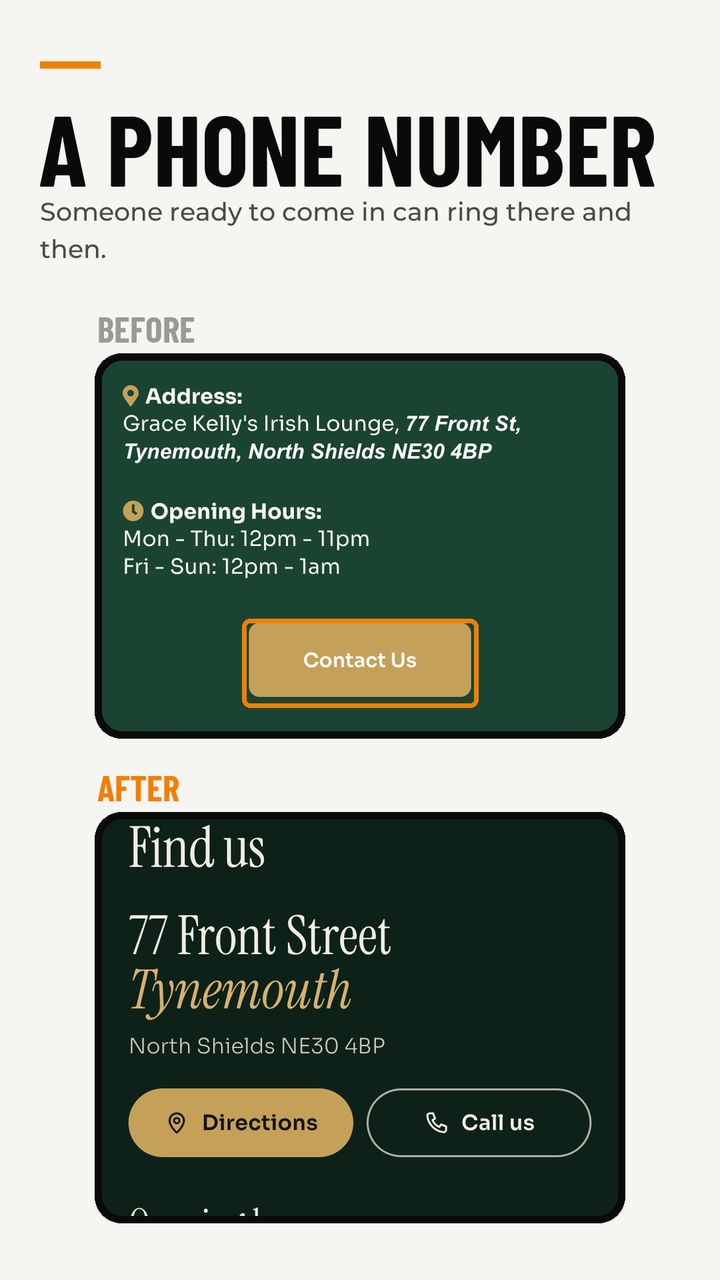
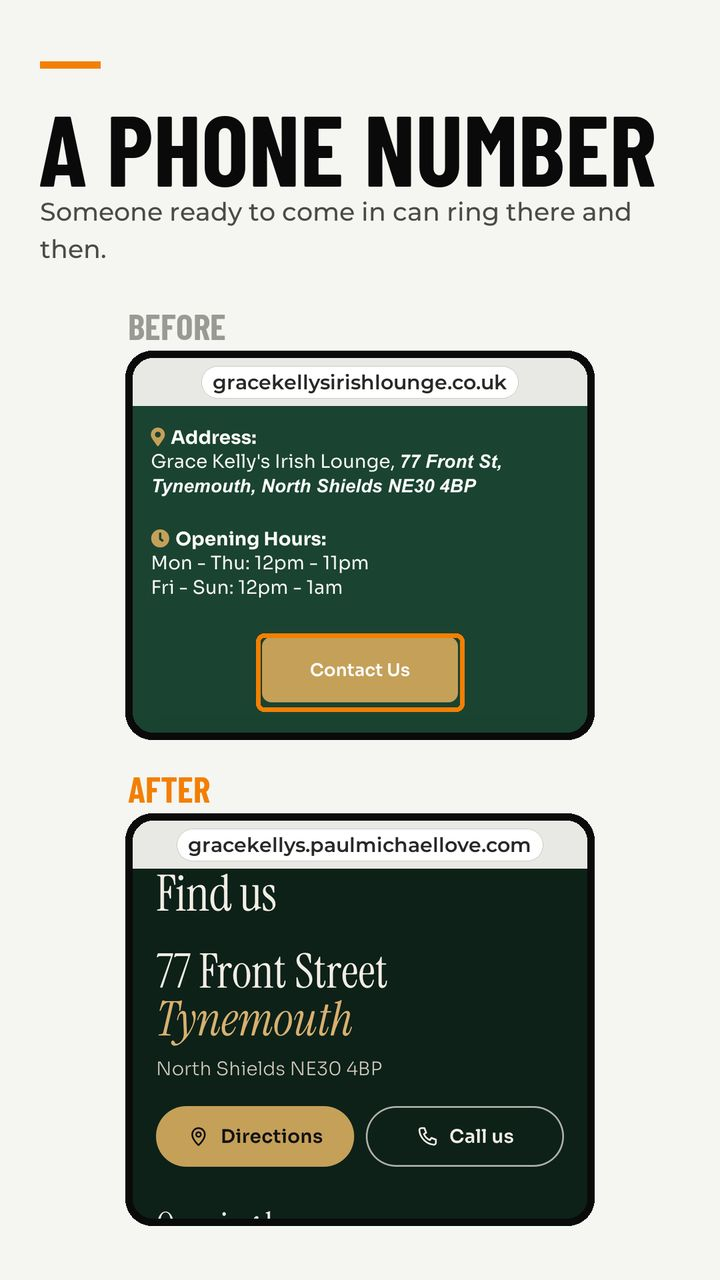
audit: numbers up top, comparison labelled, address bars on every screen

Changed region(s): [[0.1222, 0.2188, 0.8861, 0.9688]]

diff --git a/audit/index.html b/audit/index.html
@@ -34,18 +34,27 @@ section,header{padding-inline:20px}
 .pn{position:absolute;width:1px;height:1px;overflow:hidden;clip:rect(0 0 0 0);white-space:nowrap;font-style:normal}
 
 /* hero */
-.hero{padding-top:max(34px,env(safe-area-inset-top));padding-bottom:64px;min-height:100svh;background:radial-gradient(120% 60% at 50% 38%,#1b1b19 0%,var(--ink) 70%)}
+.hero{padding-top:max(34px,env(safe-area-inset-top));padding-bottom:48px;background:radial-gradient(120% 60% at 50% 38%,#1b1b19 0%,var(--ink) 70%)}
 .hero .lead{margin-top:6px;font-size:22px}
-.duo{display:flex;gap:14px;margin:26px 0 18px;align-items:flex-start}
+.duo{display:flex;gap:10px;margin:8px 0 30px;align-items:flex-start}
+.ref{margin:18px 0 34px;font-size:14px;line-height:1.5;color:var(--soft);max-width:30em}
+.pitch p{margin:0 0 .9em;font:600 24px/1.4 "Montserrat",system-ui,sans-serif;color:var(--white);text-wrap:pretty}
+.pitch b{font:700 1.3em/1 "Barlow Condensed","Arial Narrow",sans-serif;color:var(--orange);letter-spacing:.01em}
+.compare{padding-top:18px;padding-bottom:56px}
+.poster{transition:opacity .4s ease}
+.poster.gone{opacity:0}
+.cap2{margin:14px 0 0;text-align:center;font-size:14px;line-height:1.4;color:var(--soft)}
 .ph{margin:0;flex:1;min-width:0}
-.ph .scr{position:relative;border:7px solid var(--bezel);border-radius:30px;overflow:hidden;aspect-ratio:390/844;background:#000;box-shadow:0 34px 60px -28px rgba(0,0,0,.9),0 0 0 1px #3a3a37}
+.ph .chip{border:7px solid var(--bezel);border-bottom:0;border-radius:28px 28px 0 0;padding-top:12px}
+.ph .scr{position:relative;border:7px solid var(--bezel);border-top:0;border-radius:0 0 28px 28px;overflow:hidden;aspect-ratio:390/844;background:#000;box-shadow:0 34px 60px -28px rgba(0,0,0,.9),0 0 0 1px #3a3a37}
 .ph .scr img{display:block;width:100%;height:100%;object-fit:cover}
 .ph.old .scr img{filter:brightness(.38) saturate(.7)}
 .ph.new .scr{box-shadow:0 34px 70px -24px rgba(0,0,0,.9),0 0 0 1px #4a4a46,0 0 46px rgba(245,245,242,.07)}
 iframe.live{position:absolute;left:0;top:0;width:390px;height:844px;border:0;transform-origin:0 0;transform:scale(.405);opacity:0;transition:opacity .6s ease;background:#0d2119}
 iframe.live.ready{opacity:1}
-.ph figcaption{margin-top:12px;font-size:13px;line-height:1.3;color:var(--soft);text-align:center}
-.ph.new figcaption::before{content:"";display:inline-block;width:7px;height:7px;border-radius:50%;background:#58d68d;margin-right:8px;vertical-align:1px;animation:pulse 2.4s ease-in-out infinite}
+.ph figcaption{margin-top:12px;font-size:15px;line-height:1.3;font-weight:600;color:var(--white);text-align:center}
+.ph figcaption small{display:block;margin-top:5px;font-size:12px;font-weight:500;color:var(--soft)}
+.ph.new figcaption small::before{content:"";display:inline-block;width:7px;height:7px;border-radius:50%;background:#58d68d;margin-right:8px;vertical-align:1px;animation:pulse 2.4s ease-in-out infinite}
 @keyframes pulse{50%{opacity:.35}}
 @media (prefers-reduced-motion:no-preference){.duo .ph{animation:rise .9s var(--ease) both}.duo .ph.new{animation-delay:.12s}@keyframes rise{from{transform:translateY(22px)}}}
 
@@ -66,7 +75,12 @@ iframe.live.ready{opacity:1}
 .dev{margin:0;background:#000}
 .dev.phone{border:8px solid var(--bezel);border-radius:34px;overflow:hidden;box-shadow:0 36px 60px -30px rgba(0,0,0,.9),0 0 0 1px #3a3a37}
 .dev.browser{border:2px solid var(--bezel);border-radius:14px;overflow:hidden;background:#1c1c1a;box-shadow:0 30px 50px -28px rgba(0,0,0,.9),0 0 0 1px #3a3a37}
-.bar{height:22px;display:flex;gap:6px;align-items:center;padding:0 10px;background:#2a2a28}
+.bar{height:30px;display:flex;gap:6px;align-items:center;padding:0 10px;background:#2a2a28}
+.bar .url{flex:1;min-width:0;margin-left:6px;padding:4px 10px;border-radius:99px;background:#0b0b0a;color:#D6D6D0;font:600 10.5px/1.2 "Montserrat",sans-serif;text-align:center;white-space:nowrap;overflow:hidden}
+.chip{background:#1d1d1b;padding:7px 8px;container-type:inline-size}
+.chip span{display:block;margin:0 auto;background:#0b0b0a;border-radius:99px;padding:5px 6px;text-align:center;font:600 9px/1.2 "Montserrat",sans-serif;font-size:clamp(7px,5.2cqw,11px);color:#D6D6D0;white-space:nowrap;overflow:hidden}
+.urls{display:flex;justify-content:space-between;gap:6px;padding:7px 8px;background:#1d1d1b}
+.urls span{flex:1;min-width:0;padding:4px 4px;border-radius:99px;background:#0b0b0a;color:#D6D6D0;font:600 8px/1.2 "Montserrat",sans-serif;text-align:center;white-space:nowrap;overflow:hidden;text-overflow:clip}
 .bar i{width:7px;height:7px;border-radius:50%;background:#8a8a85}
 .scr{position:relative;display:block}
 .dev .scr img{display:block;width:100%;height:100%;object-fit:cover}
@@ -149,7 +163,7 @@ a.demo{color:var(--white);font-weight:700;text-decoration:none;border-bottom:2px
   .js .ring,.js .dim,iframe.live{transition:none}
   .js .ring{stroke-dashoffset:0}.js .dim{opacity:.5}
   iframe.live{opacity:1}
-  .ph.new figcaption::before{animation:none}
+  .ph.new figcaption small::before{animation:none}
 }
 
 </style>
@@ -159,21 +173,28 @@ a.demo{color:var(--white);font-weight:700;text-decoration:none;border-bottom:2px
 
 <header class="hero">
   <h1 class="d">The sites are new and they’re leaking</h1>
-  <div class="duo">
-    <figure class="ph old"><div class="scr"><img src="assets/hero-old.jpg" width="780" height="1688" alt="Grace Kelly’s Tynemouth first screen on a phone, as it is now"></div></figure>
-    <figure class="ph new"><div class="scr"><img class="poster" src="assets/hero-new.jpg" width="780" height="1688" alt="The demo’s first screen on a phone"><iframe class="live" src="https://gracekellys.paulmichaellove.com/" title="Grace Kelly’s Tynemouth, the live demo" width="390" height="844" loading="lazy" referrerpolicy="no-referrer"></iframe></div><figcaption>that’s live, go on</figcaption></figure>
+  <p class="ref">The Cove, Grace Kelly’s, 3Sixty and Davanti, on a phone, 3 November 2026.</p>
+  <div class="pitch">
+    <p>They look the part. One lost bottomless table a week at each is <b>£1,040</b> a month.</p>
+    <p><b>£697</b> a site to do it over, paid when it’s live. Then <b>£97</b> a site a month to keep it that way.</p>
+    <p>Grace Kelly’s is already built. Say the word and it’s live three days after your logins land.</p>
   </div>
-  <p class="lead">They look the part.</p>
-  <p class="p">The gaps show to a stranger with a phone and never from behind the bar.</p>
-  <p class="p">What he sees is marked below, with what I’d do about each one. I do all of it.</p>
 </header>
 
+<section class="compare">
+  <div class="duo">
+    <figure class="ph old"><div class="chip" aria-hidden="true"><span>gracekellysirishlounge.co.uk</span></div><div class="scr"><img src="assets/hero-old.jpg" width="780" height="1688" alt="Grace Kelly’s Tynemouth first screen on a phone, as it is now"></div><figcaption>your site today</figcaption></figure>
+    <figure class="ph new"><div class="chip" aria-hidden="true"><span>gracekellys.paulmichaellove.com</span></div><div class="scr"><img class="poster" src="assets/hero-new.jpg" width="780" height="1688" alt="The demo’s first screen on a phone"><iframe class="live" src="https://gracekellys.paulmichaellove.com/" title="Grace Kelly’s Tynemouth, the live demo" width="390" height="844" referrerpolicy="no-referrer"></iframe></div><figcaption>what I would do instead<small>that’s live, go on</small></figcaption></figure>
+  </div>
+</section>
+
 <section class="intro">
+  <p class="lead">What a customer sees is marked below, with what I’d do about each one. I do all of it.</p>
   <h2 class="d">What I found</h2>
   <p class="p">I went through your places at phone width, the way a stranger with a phone meets them. Eight things came up.</p>
 </section>
 
-<section class="finding" aria-label="Finding 1"><span class="fnum" aria-hidden="true">1</span><div class="track"><div class="slide"><figure class="dev phone"><div class="scr" style="aspect-ratio:390/460"><img src="assets/f1a.jpg" width="780" height="920" alt="The Cove’s booking page on a phone: undefined people, above a red box, ringed" loading="lazy" decoding="async"><svg class="ov" viewBox="0 0 390 460" preserveAspectRatio="none" aria-hidden="true"><path class="dim" fill-rule="evenodd" d="M0 0H390V460H0zM8 38h374v62h-374zM4 118h382v98h-382z"/><rect class="ring" x="8" y="38" width="374" height="62" rx="12.7" pathLength="1" style="stroke-width:5.09px"/><rect class="ring" x="4" y="118" width="382" height="98" rx="12.7" pathLength="1" style="stroke-width:5.09px"/></svg></div></figure></div><div class="slide"><figure class="dev phone"><div class="scr" style="aspect-ratio:390/460"><img src="assets/f1b.jpg" width="780" height="920" alt="3Sixty’s booking page on a phone, the same, ringed" loading="lazy" decoding="async"><svg class="ov" viewBox="0 0 390 460" preserveAspectRatio="none" aria-hidden="true"><path class="dim" fill-rule="evenodd" d="M0 0H390V460H0zM8 38h374v62h-374zM4 118h382v98h-382z"/><rect class="ring" x="8" y="38" width="374" height="62" rx="12.7" pathLength="1" style="stroke-width:5.09px"/><rect class="ring" x="4" y="118" width="382" height="98" rx="12.7" pathLength="1" style="stroke-width:5.09px"/></svg></div></figure></div></div><p class="sent">Tap Book a Table at the Cove and the booking page opens on <span class="qt">“You are making a À La Carte booking enquiry for undefined people at on undefined”</span>, above a red box saying three things are missing before anyone’s typed a thing. 3Sixty’s does the same.</p></section><section class="finding" aria-label="Finding 2"><span class="fnum" aria-hidden="true">2</span><div class="track one"><div class="slide"><figure class="dev phone"><div class="scr" style="aspect-ratio:390/700"><img src="assets/f2.jpg" width="780" height="1400" alt="The Cove’s Reservations page on a phone, the enquiry box that never loads, ringed" loading="lazy" decoding="async"><svg class="ov" viewBox="0 0 390 700" preserveAspectRatio="none" aria-hidden="true"><path class="dim" fill-rule="evenodd" d="M0 0H390V700H0zM45 54h300v608h-300z"/><rect class="ring" x="45" y="54" width="300" height="608" rx="12.7" pathLength="1" style="stroke-width:5.09px"/></svg></div></figure></div></div><p class="sent">The Cove’s Reservations page has an enquiry box that shows a broken page icon, and nothing loads in it.</p></section><section class="finding" aria-label="Finding 3"><span class="fnum" aria-hidden="true">3</span><div class="track"><div class="slide"><figure class="dev browser"><div class="bar" aria-hidden="true"><i></i><i></i><i></i></div><div class="scr" style="aspect-ratio:330/170"><img src="assets/f3a.jpg" width="330" height="170" alt="Where the Cove’s View Drinks Menu button goes: Page not found, ringed" loading="lazy" decoding="async"><svg class="ov" viewBox="0 0 330 170" preserveAspectRatio="none" aria-hidden="true"><path class="dim" fill-rule="evenodd" d="M0 0H330V170H0zM74 56h182v76h-182z"/><rect class="ring" x="74" y="56" width="182" height="76" rx="10.0" pathLength="1" style="stroke-width:4.01px"/></svg></div></figure></div><div class="slide"><figure class="dev phone"><div class="scr" style="aspect-ratio:390/360"><img src="assets/f3b.jpg" width="780" height="720" alt="The Cove’s Reservations page on 3 November, the Halloween button ringed" loading="lazy" decoding="async"><svg class="ov" viewBox="0 0 390 360" preserveAspectRatio="none" aria-hidden="true"><path class="dim" fill-rule="evenodd" d="M0 0H390V360H0zM10 205h370v84h-370z"/><rect class="ring" x="10" y="205" width="370" height="84" rx="12.7" pathLength="1" style="stroke-width:5.09px"/></svg></div></figure></div></div><p class="sent">The Cove’s home page has no opening hours on it, and its View Drinks Menu button opens a <span class="qt">“Page not found”</span> page, with a template placeholder still sitting in the web address. On 3 November the Reservations page still had a Book button for the Halloween event on Tuesday 27 October.</p></section><section class="finding" aria-label="Finding 4"><span class="fnum" aria-hidden="true">4</span><div class="track"><div class="slide"><figure class="dev phone"><div class="scr" style="aspect-ratio:390/380"><img src="assets/f4a.jpg" width="780" height="760" alt="Grace Kelly’s Tynemouth page on a phone, Seaham ringed" loading="lazy" decoding="async"><svg class="ov" viewBox="0 0 390 380" preserveAspectRatio="none" aria-hidden="true"><path class="dim" fill-rule="evenodd" d="M0 0H390V380H0zM275 140h89v30h-89z"/><rect class="ring" x="275" y="140" width="89" height="30" rx="12.7" pathLength="1" style="stroke-width:5.09px"/></svg></div></figure></div><div class="slide"><figure class="dev phone"><div class="scr" style="aspect-ratio:390/380"><img src="assets/f4b.jpg" width="780" height="760" alt="Grace Kelly’s Tynemouth Find Us block with no phone number, ringed" loading="lazy" decoding="async"><svg class="ov" viewBox="0 0 390 380" preserveAspectRatio="none" aria-hidden="true"><path class="dim" fill-rule="evenodd" d="M0 0H390V380H0zM6 146h380v162h-380z"/><rect class="ring" x="6" y="146" width="380" height="162" rx="12.7" pathLength="1" style="stroke-width:5.09px"/></svg></div></figure></div></div><p class="sent">Grace Kelly’s Tynemouth asks you to <span class="qt">“take a look around Seaham’s favourite gathering place”</span>, and its one booking link goes to Seaham and is hidden from view. The page has no phone number, and no price in words, only in a picture, and its View Drinks Menu button does nothing when tapped.</p></section><section class="finding" aria-label="Finding 5"><span class="fnum" aria-hidden="true">5</span><div class="track"><div class="slide"><figure class="dev browser"><div class="bar" aria-hidden="true"><i></i><i></i><i></i></div><div class="scr" style="aspect-ratio:400/330"><img src="assets/f5a.jpg" width="400" height="330" alt="Grace Kelly’s opening hours on Google, ringed" loading="lazy" decoding="async"><svg class="ov" viewBox="0 0 400 330" preserveAspectRatio="none" aria-hidden="true"><path class="dim" fill-rule="evenodd" d="M0 0H400V330H0zM2 92h238v166h-238z"/><rect class="ring" x="2" y="92" width="238" height="166" rx="12.2" pathLength="1" style="stroke-width:4.86px"/></svg></div></figure></div><div class="slide"><figure class="dev phone"><div class="scr" style="aspect-ratio:390/270"><img src="assets/f5b.jpg" width="780" height="540" alt="Grace Kelly’s opening hours on its own site, ringed" loading="lazy" decoding="async"><svg class="ov" viewBox="0 0 390 270" preserveAspectRatio="none" aria-hidden="true"><path class="dim" fill-rule="evenodd" d="M0 0H390V270H0zM6 126h220v74h-220z"/><rect class="ring" x="6" y="126" width="220" height="74" rx="12.7" pathLength="1" style="stroke-width:5.09px"/></svg></div></figure></div></div><p class="sent">Grace Kelly’s Tynemouth has four different sets of opening hours across Google, its site, Instagram and Fanzo, and none of its newest 30 Google reviews has a reply. In the newest 20 at the Cove, the 1 star, the 2 star and two of the three 3 stars have no reply, and 3Sixty’s four 3 stars have none.</p></section><section class="finding" aria-label="Finding 6"><span class="fnum" aria-hidden="true">6</span><div class="track one"><div class="slide"><figure class="dev browser"><div class="bar" aria-hidden="true"><i></i><i></i><i></i></div><div class="scr" style="aspect-ratio:863/478"><img src="assets/f6.jpg" width="863" height="478" alt="Where the Menu link on 3Sixty’s Google listing lands: Page not found, ringed" loading="lazy" decoding="async"><svg class="ov" viewBox="0 0 863 478" preserveAspectRatio="none" aria-hidden="true"><path class="dim" fill-rule="evenodd" d="M0 0H863V478H0zM256 100h352v146h-352z"/><rect class="ring" x="256" y="100" width="352" height="146" rx="26.2" pathLength="1" style="stroke-width:10.5px"/></svg></div></figure></div></div><p class="sent">3Sixty’s terms page prints <span class="needs">“{{NEEDS_INPUT: cancellation and amendment policy}}”</span> for anyone to read, and the Menu link on its Google listing lands on <span class="qt">“Page not found”</span>.</p></section><section class="finding" aria-label="Finding 7"><span class="fnum" aria-hidden="true">7</span><div class="track one"><div class="slide"><figure class="dev phone"><div class="scr" style="aspect-ratio:390/560"><img src="assets/f7.jpg" width="780" height="1120" alt="The Cove’s first screen on a phone, as captured" loading="lazy" decoding="async"></div></figure></div></div><p class="sent">Davanti Classico’s new site is built the same way as the Cove’s, and on both the picture a shared link carries is left blank.</p></section><section class="finding" aria-label="Finding 8"><span class="fnum" aria-hidden="true">8</span><div class="track"><div class="slide"><figure class="dev browser"><div class="bar" aria-hidden="true"><i></i><i></i><i></i></div><div class="scr" style="aspect-ratio:704/647"><img src="assets/f8a.jpg" width="704" height="647" alt="Google results for Hidden Tiger Tynemouth: the expired site first, Facebook saying Open Now, each ringed" loading="lazy" decoding="async"><svg class="ov" viewBox="0 0 704 647" preserveAspectRatio="none" aria-hidden="true"><path class="dim" fill-rule="evenodd" d="M0 0H704V647H0zM4 10h276v124h-276zM319 571h97v36h-97z"/><rect class="ring" x="4" y="10" width="276" height="124" rx="21.4" pathLength="1" style="stroke-width:8.56px"/><rect class="ring" x="319" y="571" width="97" height="36" rx="21.4" pathLength="1" style="stroke-width:8.56px"/></svg></div></figure></div><div class="slide"><figure class="dev browser"><div class="bar" aria-hidden="true"><i></i><i></i><i></i></div><div class="scr" style="aspect-ratio:394/270"><img src="assets/f8b.jpg" width="394" height="270" alt="Hidden Tiger’s Google panel: Permanently closed, and the Website button, ringed" loading="lazy" decoding="async"><svg class="ov" viewBox="0 0 394 270" preserveAspectRatio="none" aria-hidden="true"><path class="dim" fill-rule="evenodd" d="M0 0H394V270H0zM4 88h384v44h-384zM4 212h110v48h-110z"/><rect class="ring" x="4" y="88" width="384" height="44" rx="12.0" pathLength="1" style="stroke-width:4.79px"/><rect class="ring" x="4" y="212" width="110" height="48" rx="12.0" pathLength="1" style="stroke-width:4.79px"/></svg></div></figure></div><div class="slide"><figure class="dev browser"><div class="bar" aria-hidden="true"><i></i><i></i><i></i></div><div class="scr" style="aspect-ratio:1080/320"><img src="assets/f8c.jpg" width="1080" height="320" alt="Where the Website button goes: Website Expired, ringed" loading="lazy" decoding="async"><svg class="ov" viewBox="0 0 1080 320" preserveAspectRatio="none" aria-hidden="true"><path class="dim" fill-rule="evenodd" d="M0 0H1080V320H0zM440 76h198v48h-198z"/><rect class="ring" x="440" y="76" width="198" height="48" rx="32.8" pathLength="1" style="stroke-width:13.14px"/></svg></div></figure></div></div><p class="sent">Google has Hidden Tiger and Buddha Lounge, both at 76 Front Street, as permanently closed. Hidden Tiger’s first search result is a <span class="qt">“Website Expired”</span> page with a Facebook result saying <span class="qt">“Open Now”</span> below it, and Google’s own AI answer still tells people to book Buddha Lounge through its Instagram.</p></section>
+<section class="finding" aria-label="Finding 1"><span class="fnum" aria-hidden="true">1</span><div class="track"><div class="slide"><figure class="dev phone"><div class="chip" aria-hidden="true"><span>bookings.designmynight.com</span></div><div class="scr" style="aspect-ratio:390/480"><img src="assets/f1a.jpg" width="780" height="960" alt="The Cove’s booking page on a phone: undefined people, above a red box, ringed" loading="lazy" decoding="async"><svg class="ov" viewBox="0 0 390 480" preserveAspectRatio="none" aria-hidden="true"><path class="dim" fill-rule="evenodd" d="M0 0H390V480H0zM8 78h374v62h-374zM4 158h382v98h-382z"/><rect class="ring" x="8" y="78" width="374" height="62" rx="12.7" pathLength="1" style="stroke-width:5.09px"/><rect class="ring" x="4" y="158" width="382" height="98" rx="12.7" pathLength="1" style="stroke-width:5.09px"/></svg></div></figure><p class="cap2">The Cove, Book a Table, 3 November</p></div><div class="slide"><figure class="dev phone"><div class="chip" aria-hidden="true"><span>bookings.designmynight.com</span></div><div class="scr" style="aspect-ratio:390/480"><img src="assets/f1b.jpg" width="780" height="960" alt="3Sixty’s booking page on a phone, the same, ringed" loading="lazy" decoding="async"><svg class="ov" viewBox="0 0 390 480" preserveAspectRatio="none" aria-hidden="true"><path class="dim" fill-rule="evenodd" d="M0 0H390V480H0zM8 78h374v62h-374zM4 158h382v98h-382z"/><rect class="ring" x="8" y="78" width="374" height="62" rx="12.7" pathLength="1" style="stroke-width:5.09px"/><rect class="ring" x="4" y="158" width="382" height="98" rx="12.7" pathLength="1" style="stroke-width:5.09px"/></svg></div></figure></div></div><p class="sent">Tap Book a Table at the Cove and the booking page opens on <span class="qt">“You are making a À La Carte booking enquiry for undefined people at on undefined”</span>, above a red box saying three things are missing before anyone’s typed a thing. 3Sixty’s does the same.</p></section><section class="finding" aria-label="Finding 2"><span class="fnum" aria-hidden="true">2</span><div class="track one"><div class="slide"><figure class="dev phone"><div class="chip" aria-hidden="true"><span>cove-tynemouth.co.uk</span></div><div class="scr" style="aspect-ratio:390/700"><img src="assets/f2.jpg" width="780" height="1400" alt="The Cove’s Reservations page on a phone, the enquiry box that never loads, ringed" loading="lazy" decoding="async"><svg class="ov" viewBox="0 0 390 700" preserveAspectRatio="none" aria-hidden="true"><path class="dim" fill-rule="evenodd" d="M0 0H390V700H0zM45 54h300v608h-300z"/><rect class="ring" x="45" y="54" width="300" height="608" rx="12.7" pathLength="1" style="stroke-width:5.09px"/></svg></div></figure></div></div><p class="sent">The Cove’s Reservations page has an enquiry box that shows a broken page icon, and nothing loads in it.</p></section><section class="finding" aria-label="Finding 3"><span class="fnum" aria-hidden="true">3</span><div class="track"><div class="slide"><figure class="dev browser"><div class="bar" aria-hidden="true"><i></i><i></i><i></i><span class="url">cove-tynemouth.co.uk</span></div><div class="scr" style="aspect-ratio:330/170"><img src="assets/f3a.jpg" width="330" height="170" alt="Where the Cove’s View Drinks Menu button goes: Page not found, ringed" loading="lazy" decoding="async"><svg class="ov" viewBox="0 0 330 170" preserveAspectRatio="none" aria-hidden="true"><path class="dim" fill-rule="evenodd" d="M0 0H330V170H0zM74 56h182v76h-182z"/><rect class="ring" x="74" y="56" width="182" height="76" rx="10.0" pathLength="1" style="stroke-width:4.01px"/></svg></div></figure></div><div class="slide"><figure class="dev phone"><div class="chip" aria-hidden="true"><span>cove-tynemouth.co.uk</span></div><div class="scr" style="aspect-ratio:390/360"><img src="assets/f3b.jpg" width="780" height="720" alt="The Cove’s Reservations page on 3 November, the Halloween button ringed" loading="lazy" decoding="async"><svg class="ov" viewBox="0 0 390 360" preserveAspectRatio="none" aria-hidden="true"><path class="dim" fill-rule="evenodd" d="M0 0H390V360H0zM10 205h370v84h-370z"/><rect class="ring" x="10" y="205" width="370" height="84" rx="12.7" pathLength="1" style="stroke-width:5.09px"/></svg></div></figure></div></div><p class="sent">The Cove’s home page has no opening hours on it, and its View Drinks Menu button opens a <span class="qt">“Page not found”</span> page, with a template placeholder still sitting in the web address. On 3 November the Reservations page still had a Book button for the Halloween event on Tuesday 27 October.</p></section><section class="finding" aria-label="Finding 4"><span class="fnum" aria-hidden="true">4</span><div class="track"><div class="slide"><figure class="dev phone"><div class="chip" aria-hidden="true"><span>gracekellysirishlounge.co.uk</span></div><div class="scr" style="aspect-ratio:390/380"><img src="assets/f4a.jpg" width="780" height="760" alt="Grace Kelly’s Tynemouth page on a phone, Seaham ringed" loading="lazy" decoding="async"><svg class="ov" viewBox="0 0 390 380" preserveAspectRatio="none" aria-hidden="true"><path class="dim" fill-rule="evenodd" d="M0 0H390V380H0zM275 140h89v30h-89z"/><rect class="ring" x="275" y="140" width="89" height="30" rx="12.7" pathLength="1" style="stroke-width:5.09px"/></svg></div></figure></div><div class="slide"><figure class="dev phone"><div class="chip" aria-hidden="true"><span>gracekellysirishlounge.co.uk</span></div><div class="scr" style="aspect-ratio:390/380"><img src="assets/f4b.jpg" width="780" height="760" alt="Grace Kelly’s Tynemouth Find Us block with no phone number, ringed" loading="lazy" decoding="async"><svg class="ov" viewBox="0 0 390 380" preserveAspectRatio="none" aria-hidden="true"><path class="dim" fill-rule="evenodd" d="M0 0H390V380H0zM6 146h380v162h-380z"/><rect class="ring" x="6" y="146" width="380" height="162" rx="12.7" pathLength="1" style="stroke-width:5.09px"/></svg></div></figure></div></div><p class="sent">Grace Kelly’s Tynemouth asks you to <span class="qt">“take a look around Seaham’s favourite gathering place”</span>, and its one booking link goes to Seaham and is hidden from view. The page has no phone number, and no price in words, only in a picture, and its View Drinks Menu button does nothing when tapped.</p></section><section class="finding" aria-label="Finding 5"><span class="fnum" aria-hidden="true">5</span><div class="track"><div class="slide"><figure class="dev browser"><div class="bar" aria-hidden="true"><i></i><i></i><i></i><span class="url">google.com</span></div><div class="scr" style="aspect-ratio:400/330"><img src="assets/f5a.jpg" width="400" height="330" alt="Grace Kelly’s opening hours on Google, ringed" loading="lazy" decoding="async"><svg class="ov" viewBox="0 0 400 330" preserveAspectRatio="none" aria-hidden="true"><path class="dim" fill-rule="evenodd" d="M0 0H400V330H0zM2 92h238v166h-238z"/><rect class="ring" x="2" y="92" width="238" height="166" rx="12.2" pathLength="1" style="stroke-width:4.86px"/></svg></div></figure></div><div class="slide"><figure class="dev phone"><div class="chip" aria-hidden="true"><span>gracekellysirishlounge.co.uk</span></div><div class="scr" style="aspect-ratio:390/270"><img src="assets/f5b.jpg" width="780" height="540" alt="Grace Kelly’s opening hours on its own site, ringed" loading="lazy" decoding="async"><svg class="ov" viewBox="0 0 390 270" preserveAspectRatio="none" aria-hidden="true"><path class="dim" fill-rule="evenodd" d="M0 0H390V270H0zM6 126h220v74h-220z"/><rect class="ring" x="6" y="126" width="220" height="74" rx="12.7" pathLength="1" style="stroke-width:5.09px"/></svg></div></figure></div></div><p class="sent">Grace Kelly’s Tynemouth has four different sets of opening hours across Google, its site, Instagram and Fanzo, and none of its newest 30 Google reviews has a reply. In the newest 20 at the Cove, the 1 star, the 2 star and two of the three 3 stars have no reply, and 3Sixty’s four 3 stars have none.</p></section><section class="finding" aria-label="Finding 6"><span class="fnum" aria-hidden="true">6</span><div class="track one"><div class="slide"><figure class="dev browser"><div class="bar" aria-hidden="true"><i></i><i></i><i></i><span class="url">3sixtynewcastle.co.uk</span></div><div class="scr" style="aspect-ratio:863/478"><img src="assets/f6.jpg" width="863" height="478" alt="Where the Menu link on 3Sixty’s Google listing lands: Page not found, ringed" loading="lazy" decoding="async"><svg class="ov" viewBox="0 0 863 478" preserveAspectRatio="none" aria-hidden="true"><path class="dim" fill-rule="evenodd" d="M0 0H863V478H0zM256 100h352v146h-352z"/><rect class="ring" x="256" y="100" width="352" height="146" rx="26.2" pathLength="1" style="stroke-width:10.5px"/></svg></div></figure></div></div><p class="sent">3Sixty’s terms page prints <span class="needs">“{{NEEDS_INPUT: cancellation and amendment policy}}”</span> for anyone to read, and the Menu link on its Google listing lands on <span class="qt">“Page not found”</span>.</p></section><section class="finding" aria-label="Finding 7"><span class="fnum" aria-hidden="true">7</span><div class="track one"><div class="slide"><figure class="dev phone"><div class="chip" aria-hidden="true"><span>cove-tynemouth.co.uk</span></div><div class="scr" style="aspect-ratio:390/560"><img src="assets/f7.jpg" width="780" height="1120" alt="The Cove’s first screen on a phone, as captured" loading="lazy" decoding="async"></div></figure></div></div><p class="sent">Davanti Classico’s new site is built the same way as the Cove’s, and on both the picture a shared link carries is left blank.</p></section><section class="finding" aria-label="Finding 8"><span class="fnum" aria-hidden="true">8</span><div class="track"><div class="slide"><figure class="dev browser"><div class="bar" aria-hidden="true"><i></i><i></i><i></i><span class="url">google.com</span></div><div class="scr" style="aspect-ratio:704/647"><img src="assets/f8a.jpg" width="704" height="647" alt="Google results for Hidden Tiger Tynemouth: the expired site first, Facebook saying Open Now, each ringed" loading="lazy" decoding="async"><svg class="ov" viewBox="0 0 704 647" preserveAspectRatio="none" aria-hidden="true"><path class="dim" fill-rule="evenodd" d="M0 0H704V647H0zM4 10h276v124h-276zM319 571h97v36h-97z"/><rect class="ring" x="4" y="10" width="276" height="124" rx="21.4" pathLength="1" style="stroke-width:8.56px"/><rect class="ring" x="319" y="571" width="97" height="36" rx="21.4" pathLength="1" style="stroke-width:8.56px"/></svg></div></figure></div><div class="slide"><figure class="dev browser"><div class="bar" aria-hidden="true"><i></i><i></i><i></i><span class="url">google.com</span></div><div class="scr" style="aspect-ratio:394/270"><img src="assets/f8b.jpg" width="394" height="270" alt="Hidden Tiger’s Google panel: Permanently closed, and the Website button, ringed" loading="lazy" decoding="async"><svg class="ov" viewBox="0 0 394 270" preserveAspectRatio="none" aria-hidden="true"><path class="dim" fill-rule="evenodd" d="M0 0H394V270H0zM4 88h384v44h-384zM4 212h110v48h-110z"/><rect class="ring" x="4" y="88" width="384" height="44" rx="12.0" pathLength="1" style="stroke-width:4.79px"/><rect class="ring" x="4" y="212" width="110" height="48" rx="12.0" pathLength="1" style="stroke-width:4.79px"/></svg></div></figure></div><div class="slide"><figure class="dev browser"><div class="bar" aria-hidden="true"><i></i><i></i><i></i><span class="url">hidden-tiger.co.uk</span></div><div class="scr" style="aspect-ratio:1080/320"><img src="assets/f8c.jpg" width="1080" height="320" alt="Where the Website button goes: Website Expired, ringed" loading="lazy" decoding="async"><svg class="ov" viewBox="0 0 1080 320" preserveAspectRatio="none" aria-hidden="true"><path class="dim" fill-rule="evenodd" d="M0 0H1080V320H0zM440 76h198v48h-198z"/><rect class="ring" x="440" y="76" width="198" height="48" rx="32.8" pathLength="1" style="stroke-width:13.14px"/></svg></div></figure></div></div><p class="sent">Google has Hidden Tiger and Buddha Lounge, both at 76 Front Street, as permanently closed. Hidden Tiger’s first search result is a <span class="qt">“Website Expired”</span> page with a Facebook result saying <span class="qt">“Open Now”</span> below it, and Google’s own AI answer still tells people to book Buddha Lounge through its Instagram.</p></section>
 
 <section class="quiet"><p>Over 3,000 Google reviews between the Cove and 3Sixty, and the booking page calls them undefined people.</p></section>
 <section class="quiet"><p>I can’t see from outside how many give up at any of these, and I won’t guess. I can show you what one of them is worth.</p></section>
@@ -204,6 +225,7 @@ a.demo{color:var(--white);font-weight:700;text-decoration:none;border-bottom:2px
 <section class="doneover">
   <h2 class="d">Grace Kelly’s, done over</h2>
   <div class="ba" id="ba">
+    <div class="urls" aria-hidden="true"><span>gracekellysirishlounge.co.uk</span><span>gracekellys.paulmichaellove.com</span></div>
     <div class="hw" aria-hidden="true"><span class="tag l">Before</span><span class="tag r">After</span><div class="line"><span class="knob"><svg viewBox="0 0 24 24" width="22" height="22"><path d="M9 6l-6 6 6 6M15 6l6 6-6 6" fill="none" stroke="currentColor" stroke-width="2.4" stroke-linecap="round" stroke-linejoin="round"/></svg></span></div></div>
     <div class="stage">
       <div class="layer new"><img src="assets/gk-new-00.webp" width="780" height="2400" alt="" loading="lazy" decoding="async"><img src="assets/gk-new-01.webp" width="780" height="2400" alt="" loading="lazy" decoding="async"><img src="assets/gk-new-02.webp" width="780" height="2400" alt="" loading="lazy" decoding="async"><img src="assets/gk-new-03.webp" width="780" height="2400" alt="" loading="lazy" decoding="async"></div>
@@ -290,10 +312,23 @@ a.demo{color:var(--white);font-weight:700;text-decoration:none;border-bottom:2px
   // the live demo, scaled into its phone
   var fr = document.querySelector("iframe.live");
   if (fr) {
-    var fit = function () { fr.style.transform = "scale(" + fr.parentNode.clientWidth / 390 + ")"; };
+    var poster = document.querySelector("img.poster");
+    var fit = function () {
+      var sc = fr.parentNode.clientWidth / 390;
+      fr.style.transform = "scale(" + sc + ")";
+      fr.style.height = fr.parentNode.clientHeight / sc + "px"; // fill the screen exactly, no sliver of poster
+    };
     fit();
     addEventListener("resize", fit);
-    fr.addEventListener("load", function () { fr.classList.add("ready"); });
+    var shown = false;
+    var ready = function () {
+      if (shown) return;
+      shown = true;
+      fr.classList.add("ready");
+      if (poster) poster.classList.add("gone"); // only one of the two is ever seen
+    };
+    fr.addEventListener("load", ready);
+    setTimeout(ready, 4000);
   }
 
   // the one number counts up
